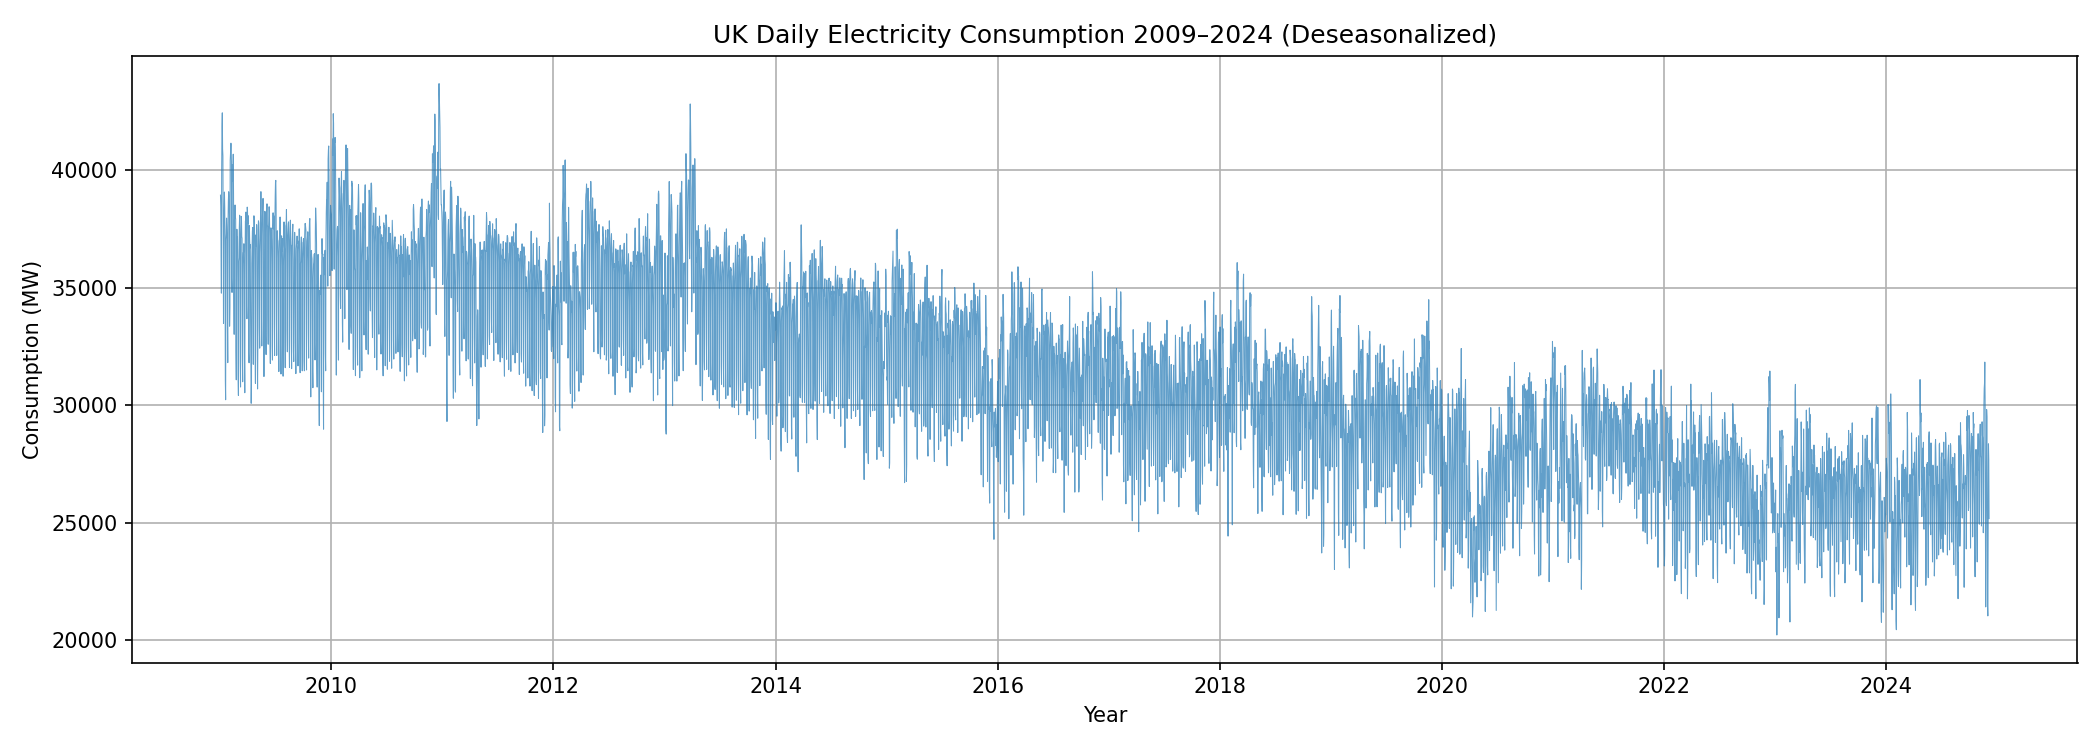
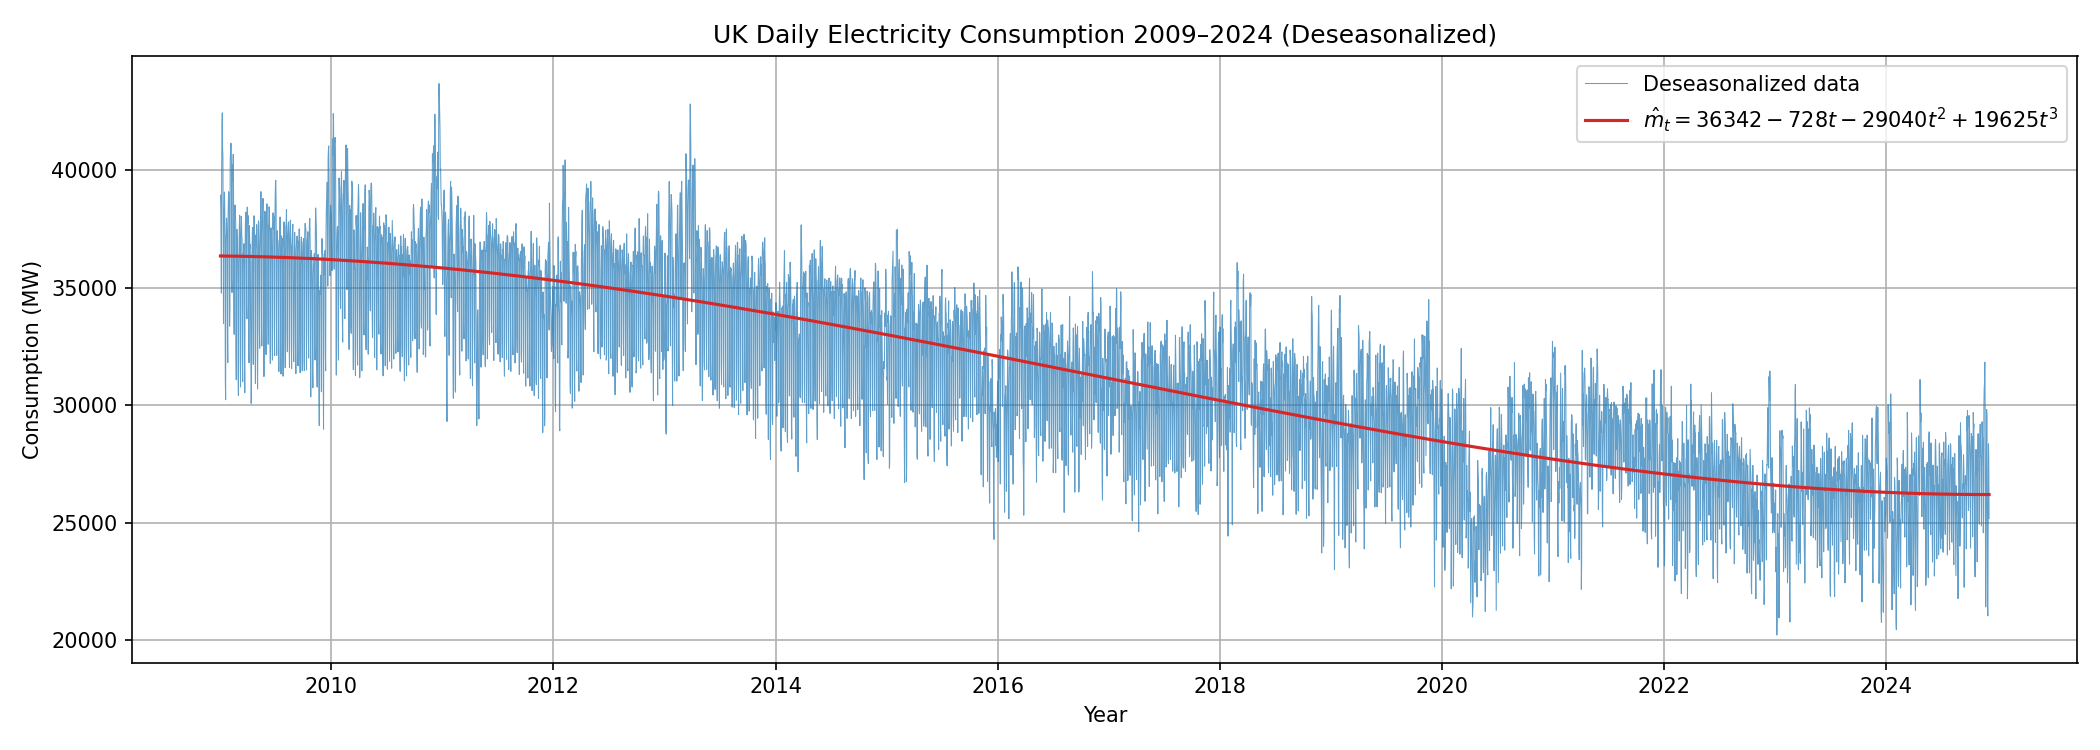
Determine explicit functions for trend and seasonal components.

diff --git a/estimate_parameters.py b/estimate_parameters.py
@@ -1,3 +1,4 @@
+import numpy as np
 import pandas as pd
 import matplotlib.pyplot as plt
 
@@ -22,24 +23,59 @@ daily_df["seasonality"] = daily_df["doy"].map(s)
 daily_df["deseasonalized"] = daily_df["nd"] - daily_df["seasonality"]
 daily_df["residual"] = daily_df["nd"] - daily_df["trend"] - daily_df["seasonality"]
 
-# Deseasonalized
+# --- Polynomial fit (degree 3) to deseasonalized data ---
+N = len(daily_df)
+t = np.arange(N) / (N - 1)
+mask = daily_df["deseasonalized"].notna()
+poly_coeffs = np.polyfit(t[mask], daily_df["deseasonalized"][mask], deg=3)
+poly_fit = np.polyval(poly_coeffs, t)
+
+# --- Harmonic fit (k=1) to seasonal component ---
+# s_t = a0 + a1*cos(2*pi*t/365) + b1*sin(2*pi*t/365)
+doy = daily_df["doy"].values
+X = np.column_stack([
+    np.ones(len(doy)),
+    np.cos(2 * np.pi * doy / 365),
+    np.sin(2 * np.pi * doy / 365),
+])
+harm_coeffs, _, _, _ = np.linalg.lstsq(X, daily_df["seasonality"].values, rcond=None)
+harm_fit = X @ harm_coeffs
+
+# Format polynomial label with coefficients
+a3, a2, a1, a0 = [round(c) for c in poly_coeffs]
+def signed(val):
+    return f"+ {val}" if val >= 0 else f"- {abs(val)}"
+poly_label = rf"$\hat{{m}}_t = {a0} {signed(a1)} t {signed(a2)} t^2 {signed(a3)} t^3$"
+
+# Format harmonic label with coefficients
+h0, h1, b1 = [round(c) for c in harm_coeffs]
+harm_label = (
+    rf"$\hat{{s}}_t = {h0} {signed(h1)} \cdot \cos\!\left(\frac{{2\pi t}}{{365}}\right)"
+    rf" {signed(b1)} \cdot \sin\!\left(\frac{{2\pi t}}{{365}}\right)$"
+)
+
+# Deseasonalized with polynomial fit
 plt.figure(figsize=(14, 5))
-plt.plot(daily_df["date"], daily_df["deseasonalized"], linewidth=0.5, alpha=0.7)
+plt.plot(daily_df["date"], daily_df["deseasonalized"], linewidth=0.5, alpha=0.7, label="Deseasonalized data")
+plt.plot(daily_df["date"], poly_fit, linewidth=1.5, color="tab:red", label=poly_label)
 plt.xlabel("Year")
 plt.ylabel("Consumption (MW)")
 plt.title("UK Daily Electricity Consumption 2009–2024 (Deseasonalized)")
+plt.legend()
 plt.grid(True)
 plt.tight_layout()
 plt.savefig("data/output/deseasonalized.png", dpi=150)
 plt.close()
 print("Saved to data/output/deseasonalized.png")
 
-# Seasonality
+# Seasonal component with harmonic fit
 plt.figure(figsize=(14, 5))
-plt.plot(daily_df["date"], daily_df["seasonality"], linewidth=0.5, alpha=0.7)
+plt.plot(daily_df["date"], daily_df["seasonality"], linewidth=0.5, alpha=0.7, label="Seasonal data")
+plt.plot(daily_df["date"], harm_fit, linewidth=1.5, color="tab:red", label=harm_label)
 plt.xlabel("Year")
 plt.ylabel("Consumption (MW)")
 plt.title("UK Daily Electricity Consumption 2009–2024 (Seasonal Component)")
+plt.legend()
 plt.grid(True)
 plt.tight_layout()
 plt.savefig("data/output/seasonality.png", dpi=150)
@@ -58,4 +94,3 @@ plt.tight_layout()
 plt.savefig("data/output/residual.png", dpi=150)
 plt.close()
 print("Saved to data/output/residual.png")
-
